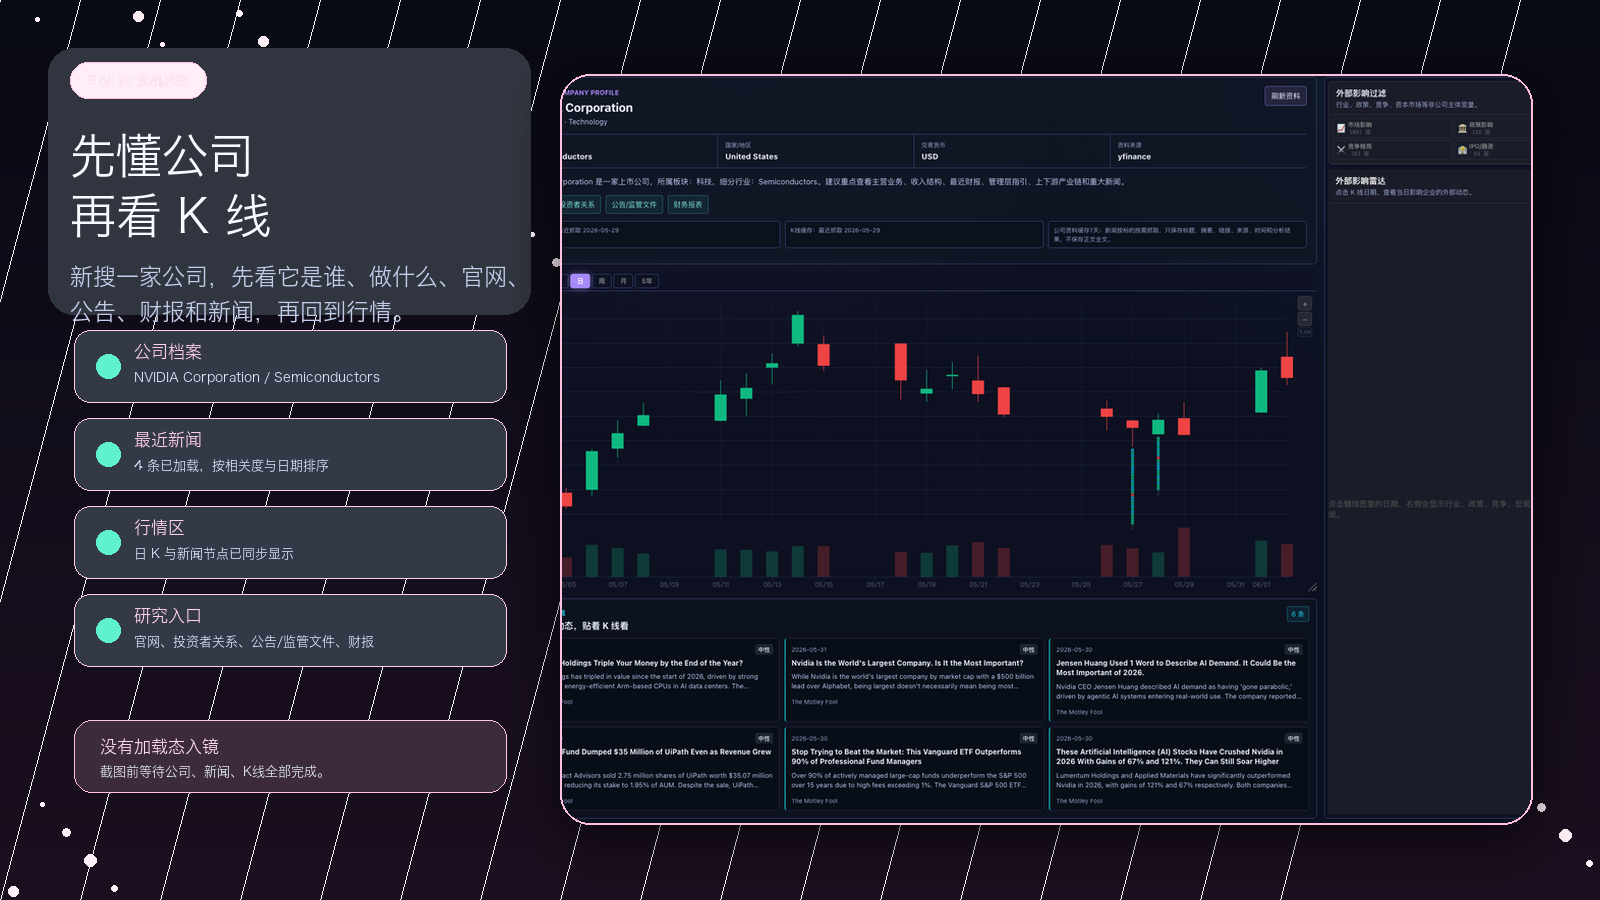
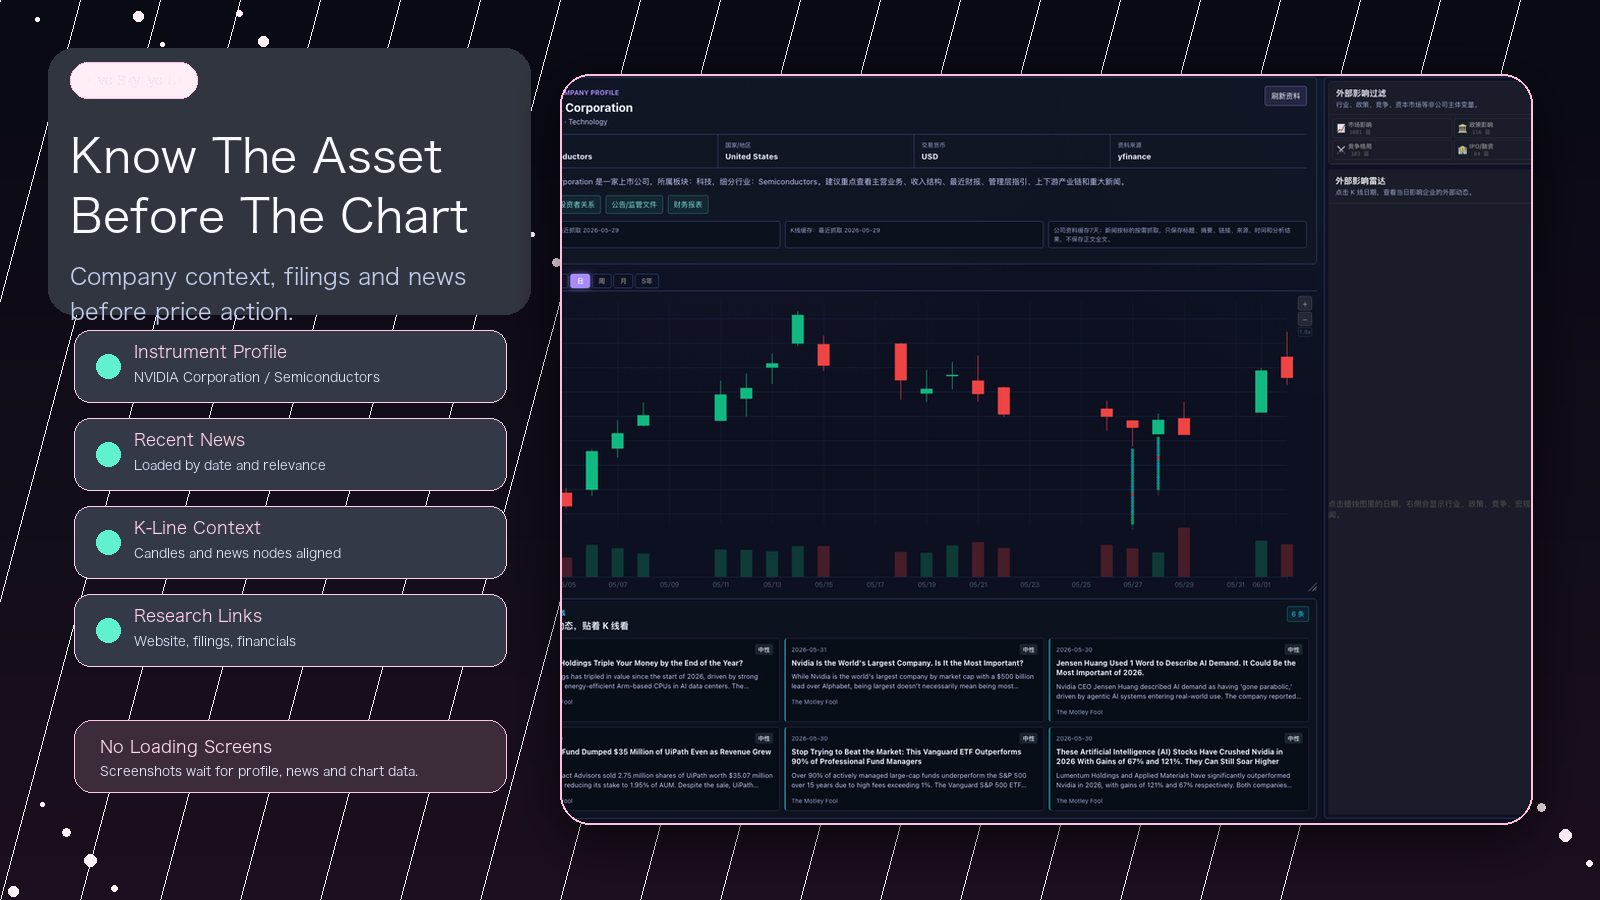
Improve GitHub product narrative and release log

diff --git a/scripts/generate_real_showcase.py b/scripts/generate_real_showcase.py
@@ -35,6 +35,21 @@ def text_width(draw: ImageDraw.ImageDraw, text: str, fnt) -> int:
 
 
 def wrap(draw: ImageDraw.ImageDraw, text: str, max_width: int, fnt) -> list[str]:
+    if " " in text and all(ord(ch) < 128 for ch in text):
+        lines: list[str] = []
+        current = ""
+        for word in text.split(" "):
+            test = word if not current else current + " " + word
+            if draw.textlength(test, font=fnt) <= max_width:
+                current = test
+            else:
+                if current:
+                    lines.append(current)
+                current = word
+        if current:
+            lines.append(current)
+        return lines
+
     lines: list[str] = []
     current = ""
     for ch in text:
@@ -129,7 +144,7 @@ def label(draw: ImageDraw.ImageDraw, xy, text, accent):
 
 
 def draw_headline(draw: ImageDraw.ImageDraw, title: str, subtitle: str, accent, x=70, y=54, max_width=650):
-    label(draw, (x, y), "SkyEye 实机界面", accent)
+    label(draw, (x, y), "Live SkyEye UI", accent)
     ty = y + 70
     for line in title.split("\n"):
         draw.text((x, ty), line, font=F["hero_safe"], fill=(248, 250, 255))
@@ -152,9 +167,9 @@ def make_kline_news():
     paste_panel(img, chart, (46, 184, 1196, 828), radius=26, outline=(89, 148, 255, 155))
 
     d.rounded_rectangle((54, 38, 720, 182), radius=24, fill=(4, 10, 20, 232), outline=(90, 218, 255, 80), width=1)
-    d.text((78, 56), "点一下 K 线", font=F["hero_safe"], fill=(250, 252, 255))
-    d.text((78, 112), "新闻解释走势", font=F["hero_safe"], fill=(250, 252, 255))
-    d.text((80, 166), "价格、新闻节点、趋势解释和一键分析在同一张图里。", font=F["tiny"], fill=(195, 207, 236))
+    d.text((78, 56), "Decode The K-Line", font=F["h1"], fill=(250, 252, 255))
+    d.text((78, 112), "With News Evidence", font=F["h1"], fill=(250, 252, 255))
+    d.text((80, 166), "Price, catalysts, trend logic and one-click analysis in one chart.", font=F["tiny"], fill=(195, 207, 236))
 
     node = (856, 604)
     lens_center = (824, 394)
@@ -176,14 +191,14 @@ def make_kline_news():
 
     panel = (1222, 184, 1548, 828)
     d.rounded_rectangle(panel, radius=24, fill=(11, 18, 34, 235), outline=(90, 160, 255, 120), width=2)
-    d.text((1248, 216), "节点新闻证据", font=F["h2"], fill=(250, 252, 255))
-    d.text((1248, 258), "NVDA · 2026-06-02 · 价格 +4.8%", font=F["tiny"], fill=(124, 234, 204))
+    d.text((1248, 216), "News Evidence", font=F["h2"], fill=(250, 252, 255))
+    d.text((1248, 258), "NVDA · 2026-06-02 · Price +4.8%", font=F["tiny"], fill=(124, 234, 204))
 
     y = 298
     news_items = [
-        ("AI 需求", "Jensen Huang 称 AI 需求仍然强劲，数据中心收入继续超预期。", "+ 舆情强度 82"),
-        ("产业链", "云厂商资本开支上修，HBM 与 GPU 供应链关注度同步升温。", "+ 产业链相关 76"),
-        ("风险", "估值已经拥挤，若财报指引低于预期，波动可能放大。", "- 拥挤度扣分 18"),
+        ("AI Demand", "Jensen Huang says AI demand remains strong as data-center revenue beats expectations.", "+ Sentiment 82"),
+        ("Supply Chain", "Cloud capex rises, pulling HBM and GPU suppliers into focus.", "+ Chain relevance 76"),
+        ("Risk", "Valuation is crowded; weak guidance could amplify volatility.", "- Crowding penalty 18"),
     ]
     for tag, body, score in news_items:
         d.rounded_rectangle((1248, y, 1522, y + 92), radius=14, fill=(21, 29, 50, 220), outline=(63, 87, 135, 130), width=1)
@@ -196,14 +211,14 @@ def make_kline_news():
         y += 102
 
     d.rounded_rectangle((1248, 650, 1522, 744), radius=16, fill=(8, 28, 36, 235), outline=(93, 236, 200, 150), width=1)
-    d.text((1266, 670), "一键分析输出", font=F["small"], fill=(111, 244, 210))
-    analysis = "短线价格反应与 AI/HBM 新闻同向；适合放入观察池，等待回踩支撑或新财报确认。"
+    d.text((1266, 670), "One-Click Analysis", font=F["small"], fill=(111, 244, 210))
+    analysis = "AI/HBM narrative confirmed; watch support or earnings proof."
     ay = 698
     for line in wrap(d, analysis, 228, F["tiny"])[:2]:
         d.text((1266, ay), line, font=F["tiny"], fill=(236, 246, 255))
         ay += 20
     d.rounded_rectangle((1288, 772, 1522, 808), radius=18, fill=(115, 88, 255, 255))
-    d.text((1405, 790), "生成分析报告", font=F["small"], fill=(255, 255, 255), anchor="mm")
+    d.text((1405, 790), "Generate Report", font=F["small"], fill=(255, 255, 255), anchor="mm")
 
     img.save(MEDIA / "real-showcase-01-news-kline.png")
 
@@ -221,8 +236,8 @@ def make_news_dashboard():
 
     draw_headline(
         d,
-        "风口雷达\n抓住热点",
-        "热点、风险和资产线索，先排序再模拟。",
+        "Opportunity\nRadar",
+        "Find hot themes, risks and watchlists before you simulate.",
         accent,
         x=70,
         y=58,
@@ -230,13 +245,13 @@ def make_news_dashboard():
     )
 
     d.rounded_rectangle((70, 340, 458, 790), radius=24, fill=(12, 18, 34, 225), outline=(120, 105, 255, 110), width=1)
-    d.text((98, 368), "今天该看什么", font=F["h2"], fill=(250, 252, 255))
+    d.text((98, 368), "What Matters Today", font=F["h2"], fill=(250, 252, 255))
     ranks = [
-        ("AI算力 / HBM", 93, (99, 240, 213)),
-        ("宏观流动性", 83, (125, 190, 255)),
-        ("港股打新", 70, (255, 202, 88)),
-        ("机器人/自动驾驶", 70, (255, 142, 198)),
-        ("加密基础设施", 63, (169, 139, 250)),
+        ("AI Compute / HBM", 93, (99, 240, 213)),
+        ("Macro Liquidity", 83, (125, 190, 255)),
+        ("HK IPO Watch", 70, (255, 202, 88)),
+        ("Robotics / Autonomy", 70, (255, 142, 198)),
+        ("Crypto Infra", 63, (169, 139, 250)),
     ]
     y = 420
     for name, score, col in ranks:
@@ -246,16 +261,16 @@ def make_news_dashboard():
         d.text((392, y + 12), str(score), font=F["h2"], fill=col, anchor="mm")
         y += 66
 
-    d.text((98, 732), "词云", font=F["small"], fill=(177, 188, 218))
+    d.text((98, 732), "Signal Cloud", font=F["small"], fill=(177, 188, 218))
     x = 150
     y = 722
     words = [
         ("AI", 24, (98, 239, 215)),
         ("IPO", 18, (255, 202, 88)),
-        ("监管政策", 14, (125, 190, 255)),
-        ("流动性", 13, (169, 139, 250)),
+        ("Policy", 14, (125, 190, 255)),
+        ("Liquidity", 13, (169, 139, 250)),
         ("HBM", 16, (255, 142, 198)),
-        ("地缘风险", 12, (255, 100, 130)),
+        ("Geopolitics", 12, (255, 100, 130)),
     ]
     for word, size, col in words:
         fnt = font(size, True)
@@ -268,8 +283,8 @@ def make_news_dashboard():
         x += w + 8
 
     d.rounded_rectangle((592, 794, 1438, 844), radius=24, fill=(9, 17, 31, 230), outline=(115, 224, 255, 120), width=1)
-    d.text((624, 809), "强信号：AI算力、宏观流动性、港股打新", font=F["small"], fill=(115, 238, 218))
-    d.text((968, 809), "观察信号：机器人、加密基础设施、地缘冲突", font=F["small"], fill=(213, 222, 248))
+    d.text((624, 809), "Strong: AI compute, macro liquidity, HK IPOs", font=F["small"], fill=(115, 238, 218))
+    d.text((1014, 809), "Watch: robotics, crypto infra, geopolitics", font=F["small"], fill=(213, 222, 248))
 
     img.save(MEDIA / "real-showcase-02-radar-dashboard.png")
 
@@ -283,8 +298,8 @@ def make_company_loaded():
 
     draw_headline(
         d,
-        "先懂公司\n再看 K 线",
-        "新搜一家公司，先看它是谁、做什么、官网、公告、财报和新闻，再回到行情。",
+        "Know The Asset\nBefore The Chart",
+        "Company context, filings and news before price action.",
         accent,
         x=70,
         y=62,
@@ -292,10 +307,10 @@ def make_company_loaded():
     )
 
     loaded = [
-        ("公司档案", "NVIDIA Corporation / Semiconductors"),
-        ("最近新闻", "4 条已加载，按相关度与日期排序"),
-        ("行情区", "日 K 与新闻节点已同步显示"),
-        ("研究入口", "官网、投资者关系、公告/监管文件、财报"),
+        ("Instrument Profile", "NVIDIA Corporation / Semiconductors"),
+        ("Recent News", "Loaded by date and relevance"),
+        ("K-Line Context", "Candles and news nodes aligned"),
+        ("Research Links", "Website, filings, financials"),
     ]
     y = 330
     for title, body in loaded:
@@ -306,8 +321,8 @@ def make_company_loaded():
         y += 88
 
     d.rounded_rectangle((74, 720, 506, 792), radius=18, fill=(35, 15, 31, 225), outline=(255, 140, 198, 130), width=1)
-    d.text((100, 738), "没有加载态入镜", font=F["small"], fill=(255, 220, 238))
-    d.text((100, 764), "截图前等待公司、新闻、K线全部完成。", font=F["tiny"], fill=(230, 238, 252))
+    d.text((100, 738), "No Loading Screens", font=F["small"], fill=(255, 220, 238))
+    d.text((100, 764), "Screenshots wait for profile, news and chart data.", font=F["tiny"], fill=(230, 238, 252))
 
     shot = Image.open(SHOTS / "real-nvda-company-loaded.png").convert("RGBA")
     screen = crop_cover(shot, (0, 70, 1800, 1320), (955, 735))
@@ -320,7 +335,7 @@ def main():
     make_kline_news()
     make_news_dashboard()
     make_company_loaded()
-    print("generated upgraded real showcase images")
+    print("generated English real showcase images")
 
 
 if __name__ == "__main__":

diff --git a/README.md b/README.md
@@ -1,30 +1,83 @@
 # SkyEye
 
-SkyEye is a personal market-intelligence dashboard for learning-driven investing. It connects market narratives, company profiles, news, events, IPO watchlists, supply-chain themes, K-line context, and dual-currency paper trading.
+**A news-to-price market intelligence tracker for learning-driven investors.**
 
-> Research and paper trading only. SkyEye does not place live orders and does not provide financial advice.
+SkyEye turns scattered market information into one research loop: spot a theme,
+open the symbol, read the evidence, inspect the K-line reaction, simulate a
+trade, and review what happened afterward.
+
+It is designed for Hong Kong and U.S. market learning, especially where company
+news, macro shocks, policy signals, IPOs, supply-chain narratives, crypto flows,
+and commodities all collide with price.
+
+> Research and paper trading only. SkyEye does not place live orders and does
+> not provide financial advice.
 
 ## Product Preview
 
-![News sentiment explains K-line](docs/media/real-showcase-01-news-kline.png)
+![News explains the K-line](docs/media/real-showcase-01-news-kline.png)
 
-![Filtered market intelligence dashboard](docs/media/real-showcase-02-radar-dashboard.png)
+![Opportunity radar and market intelligence](docs/media/real-showcase-02-radar-dashboard.png)
 
-![Company decisions to macro insight](docs/media/real-showcase-03-company-to-macro.png)
+![Company context before price action](docs/media/real-showcase-03-company-to-macro.png)
 
-## 15-Second Launch Videos
+## What Makes SkyEye Different
+
+- **News-to-K-line context**: company news, sentiment, event categories, price
+  reaction, support/resistance notes, and AI analysis live next to the chart.
+- **Opportunity Radar**: filters news, events, IPOs, catalysts, market themes,
+  and trade setups into strong signals and watch signals.
+- **Company and instrument profiles**: equities get company background,
+  official links, filings, financials, and recent news; indices, crypto, and
+  commodities get tracker-style quote context instead of fake company profiles.
+- **Dual-currency paper trading**: HK equities route to an HKD paper book and
+  U.S. equities route to a USD paper book, with no forced FX conversion.
+- **Macro-from-micro workflow**: individual company decisions, supply chains,
+  policy shifts, and sentiment clusters roll up into broader market themes.
+- **Built for learning**: bilingual UI modes, learning/pro modes, and a quant
+  lab are included so the product can grow with the investor.
+
+## Core Workflows
+
+1. **Scan the market**
+   Open the overview dashboard to see market status, global news, risk themes,
+   hot topics, IPOs, and Opportunity Radar alerts.
+
+2. **Open a symbol**
+   Search for a company, index, crypto pair, or commodity future. SkyEye shows
+   the right kind of profile for that instrument before the chart.
+
+3. **Connect news to price**
+   Inspect candlesticks, news particles, category filters, event timelines, and
+   external impact panels to understand why a move may have happened.
+
+4. **Simulate before acting**
+   Convert a research alert into a paper order, then review position exposure
+   and book performance separately for HKD and USD.
+
+## Bilingual And Future Multilingual Support
+
+SkyEye currently supports Chinese and English UI modes, including a bilingual
+mode for investors who are still learning market terminology. Source names,
+tickers, official filings, and original article titles remain in their native
+form when that is the clearest representation.
+
+Future versions are planned to add more language packs so the same market
+tracker can serve international users without losing local-market nuance.
+
+## Release Media
+
+### 15-Second Launch Videos
 
 - [Opportunity Radar](docs/media/01-opportunity-radar.mp4)
 - [Company Profile](docs/media/02-company-profile.mp4)
 - [Paper Trading](docs/media/03-paper-trading.mp4)
 
-## Highlights
+### Product Images
 
-- Opportunity Radar: turns news, events, IPOs, catalyst data, and trade setups into research alerts.
-- Company Profile: shows what a company does, website, filings, financial links, sector, industry, and recent local news index.
-- Dual-currency paper books: HKD paper book for Hong Kong equities and USD paper book for US equities.
-- News-to-price workflow: aligns news dates with OHLC data, K-line views, sentiment, and follow-up watch points.
-- Theme system: deep terminal looks plus brighter themes such as Sakura, Daylight, and Aurora.
+All showcase images are generated from real SkyEye UI screenshots and then
+composed into product-introduction graphics for GitHub, demos, and application
+materials.
 
 ## Local Setup
 
@@ -45,9 +98,16 @@ python server.py
 
 Open `http://localhost:8888`.
 
-## Safety
+## Safety And Privacy
 
-- Local `.env`, SQLite databases, model artifacts, caches, and generated build assets are excluded from the public repository.
+- Local `.env`, SQLite databases, model artifacts, caches, and generated build
+  assets are excluded from the public repository.
 - Paper trading is simulation only.
 - HKD and USD books are intentionally not FX-converted.
-- News storage is designed around metadata and analysis indexes, not full article archives.
+- News storage is designed around metadata, summaries, links, timestamps, and
+  analysis indexes, not full article archives.
+
+## Iteration Log
+
+SkyEye keeps a human-readable [CHANGELOG](CHANGELOG.md). Bug fixes, UI polish,
+and product capability upgrades should be logged there before publishing.

diff --git a/CHANGELOG.md b/CHANGELOG.md
@@ -1,0 +1,47 @@
+# Changelog
+
+All notable SkyEye product changes are tracked here so the project reads like an
+active, iterative product rather than a one-off dashboard.
+
+## 2026-06-04
+
+### Added
+
+- Added this changelog and linked it from the README so future bug fixes and
+  product iterations have a visible release trail.
+- Added a stronger English GitHub product narrative focused on SkyEye as a
+  news-to-price market intelligence tracker.
+- Added bilingual positioning to the public project description, including
+  current Chinese/English support and the plan for future language packs.
+
+### Changed
+
+- Updated the real product showcase image script so GitHub introduction images
+  use English headlines and demo copy.
+- Refined non-equity instrument pages so indices, crypto pairs, and commodities
+  display quote/tracker context instead of company-profile language.
+
+### Fixed
+
+- Fixed misleading company-profile wording for instruments such as `GC=F`,
+  `BTC-USD`, and `^HSI`.
+
+## 2026-06-03
+
+### Added
+
+- Added real UI-based product showcase graphics for GitHub and application
+  materials.
+- Added 15-second launch-video assets and cover images.
+- Added multi-theme presentation support, including brighter product styles.
+
+### Changed
+
+- Reworked the deep symbol view so company news sits below the K-line while
+  policy, industry, macro, and external-impact items sit in the right panel.
+- Refined showcase titles to make the K-line workflow the first product story.
+
+### Fixed
+
+- Locked the local development server to loopback by default to reduce accidental
+  exposure on the local network.

diff --git a/docs/media/README.md b/docs/media/README.md
@@ -2,6 +2,8 @@
 
 Generated product-launch visuals for README, GitHub social preview, and Codex developer-program application materials.
 
+The current public showcase images use English product copy, while the underlying SkyEye app supports Chinese, English, and bilingual UI modes.
+
 ## 15-second videos
 
 - `01-opportunity-radar.mp4`